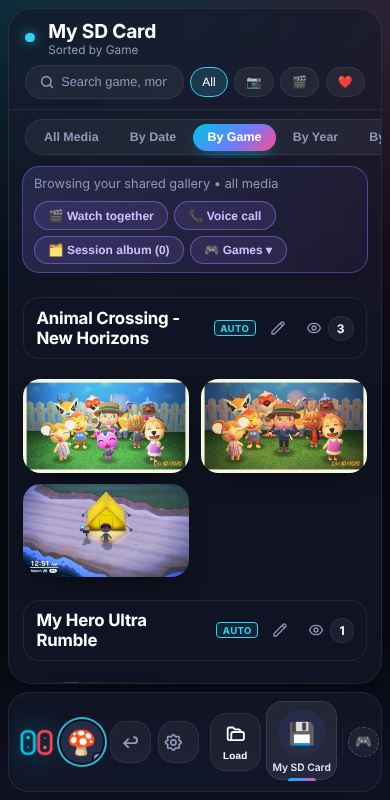
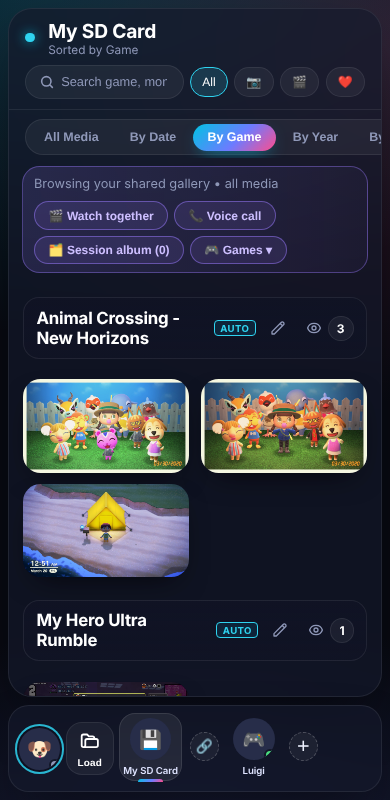
Dock layout: scrollable rail with a visible scroll bar, slimmer phone bar, remove the back-to-classic button (1.14.1)
Claude-Session: https://claude.ai/code/session_01QyxPkgcy6679hfwadjTiiM

diff --git a/index.html b/index.html
@@ -658,9 +658,13 @@
         .layout-dock .sidebar {
             width: 5.9rem; height: 100%; max-height: none; border-radius: 1.5rem; background: var(--dk-glass); border: 1px solid var(--dk-line);
             -webkit-backdrop-filter: blur(18px); backdrop-filter: blur(18px); box-shadow: 0 24px 60px -24px rgba(0,0,0,0.75);
-            align-items: center; padding: 0.95rem 0 0.75rem; overflow-x: hidden; overflow-y: auto; scrollbar-width: none;
+            align-items: center; padding: 0.95rem 0 0.75rem; overflow: hidden;
         }
-        .layout-dock .sidebar::-webkit-scrollbar { display: none; }
+        .layout-dock .dk-rail-scroll { flex: 1 1 auto; min-height: 0; width: 100%; display: flex; flex-direction: column; align-items: center; overflow-y: auto; overflow-x: hidden; scrollbar-width: thin; scrollbar-color: rgba(255,255,255,0.4) rgba(255,255,255,0.06); padding-bottom: 0.4rem; }
+        .layout-dock .dk-rail-scroll::-webkit-scrollbar { width: 8px; height: 8px; }
+        .layout-dock .dk-rail-scroll::-webkit-scrollbar-track { background: rgba(255,255,255,0.06); border-radius: 9999px; margin: 0.3rem 0; }
+        .layout-dock .dk-rail-scroll::-webkit-scrollbar-thumb { background: rgba(255,255,255,0.4); border-radius: 9999px; }
+        .layout-dock .dk-rail-scroll::-webkit-scrollbar-thumb:hover { background: rgba(255,255,255,0.65); }
         .layout-dock .sidebar-header { padding: 0; border: 0; margin: 0 0 0.7rem; }
         .layout-dock .sidebar-title { display: none; }
         .layout-dock .sidebar-logo { width: 2.7rem; height: 2.7rem; filter: drop-shadow(0 0 14px rgba(0,195,227,0.55)); }
@@ -701,11 +705,10 @@
         .layout-dock .sidebar > .nav-section-title, .layout-dock .sidebar > #sort-title, .layout-dock .sidebar > #discover-title,
         .layout-dock .sidebar > #nav-filters, .layout-dock .sidebar > #discover-buttons, .layout-dock .sidebar > #local-tools,
         .layout-dock .sidebar > #peer-activity-box, .layout-dock .sidebar > #stats-container { display: none !important; }
-        .layout-dock .settings-btn-container { margin-top: auto; padding: 0.6rem 0 0; border: 0; display: flex; flex-direction: column; gap: 0.4rem; align-items: center; width: 100%; }
+        .layout-dock .settings-btn-container { margin-top: 0; flex-shrink: 0; padding: 0.6rem 0 0; border: 0; display: flex; flex-direction: column; gap: 0.4rem; align-items: center; width: 100%; }
         .layout-dock .btn-sidebar-action { width: 3.1rem; height: 3.1rem; padding: 0; font-size: 0; justify-content: center; border-radius: 1rem; background: var(--dk-soft); border: 1px solid var(--dk-line); }
         .layout-dock .btn-sidebar-action svg { width: 1.3rem; height: 1.3rem; }
         .layout-dock .btn-sidebar-action:hover { background: rgba(255,255,255,0.12); }
-        .layout-dock #btn-dk-classic { font-size: 0.95rem; color: var(--switch-muted); }
 
         /* ----- main panel ----- */
         .layout-dock .main-area { border-radius: 1.5rem; background: var(--dk-glass); border: 1px solid var(--dk-line); -webkit-backdrop-filter: blur(18px); backdrop-filter: blur(18px); box-shadow: 0 24px 60px -24px rgba(0,0,0,0.75); overflow: hidden; }
@@ -827,25 +830,26 @@
         /* ----- phones and narrow windows: the rail becomes a bar along the bottom ----- */
         @media (max-width: 860px) {
             body.layout-dock { flex-direction: column-reverse; padding: 0.5rem; gap: 0.5rem; }
-            .layout-dock .sidebar { width: 100%; height: auto; flex-direction: row; align-items: center; justify-content: flex-start; gap: 0.15rem; padding: 0.45rem 0.6rem; overflow-x: auto; overflow-y: hidden; border-radius: 1.3rem; flex-shrink: 0; }
-            .layout-dock .sidebar > * { flex-shrink: 0; order: 10; }
-            .layout-dock .sidebar > .sidebar-header { order: 1; }
-            .layout-dock .sidebar > .my-profile-card { order: 2; }
-            .layout-dock .sidebar > .settings-btn-container { order: 3; }
-            .layout-dock .sidebar > #btn-select-folder { order: 4; }
-            .layout-dock .sidebar-header, .layout-dock .my-profile-card { margin: 0 0.3rem 0 0; }
-            .layout-dock .sidebar-logo { width: 2.2rem; height: 2.2rem; }
-            .layout-dock .my-profile-card .avatar-circle { width: 2.6rem; height: 2.6rem; }
-            .layout-dock #btn-select-folder { margin: 0 0.2rem !important; width: 3.2rem !important; }
+            .layout-dock .sidebar { width: 100%; height: auto; flex-direction: row; align-items: center; justify-content: flex-start; gap: 0.35rem; padding: 0.4rem 0.6rem; overflow: hidden; border-radius: 1.3rem; flex-shrink: 0; }
+            .layout-dock .sidebar > * { flex-shrink: 0; }
+            .layout-dock .sidebar > .sidebar-header, .layout-dock .sidebar > .settings-btn-container { display: none; }
+            .layout-dock .sidebar > .my-profile-card { margin: 0; }
+            .layout-dock .my-profile-card .avatar-circle { width: 2.6rem; height: 2.6rem; font-size: 1.25rem; }
+            .layout-dock #btn-select-folder { margin: 0 !important; width: 3rem !important; padding: 0.4rem 0; }
             .layout-dock .sidebar > div[style*="padding: 0 0.6rem"] { width: auto; padding: 0 !important; }
-            .layout-dock .section-title { width: auto; margin: 0 0.2rem; flex-direction: row; }
-            .layout-dock .section-title::before { width: 1px; height: 1.6rem; }
-            .layout-dock .section-title span { display: none; }
+            .layout-dock .sidebar > div[style*="padding: 0 0.6rem"] .friend-row { width: 3.9rem; padding: 0.35rem 0.15rem 0.3rem; }
+            .layout-dock .dk-rail-scroll { flex: 1 1 0; min-width: 0; flex-direction: row; align-items: center; gap: 0.1rem; overflow-x: auto; overflow-y: hidden; padding: 0 0 0.25rem; scrollbar-width: thin; }
+            .layout-dock .dk-rail-scroll > * { flex-shrink: 0; }
+            .layout-dock .dk-rail-scroll > .section-title:has(#btn-add-presence), .layout-dock .dk-rail-scroll > #presence-list { display: none; }
+            .layout-dock .section-title { width: auto; margin: 0 0.15rem; flex-direction: row; }
+            .layout-dock .section-title::before, .layout-dock .section-title span { display: none; }
+            .layout-dock .section-title button { width: 1.8rem; height: 1.8rem; }
             .layout-dock .presence-list, .layout-dock .friend-list { flex-direction: row; width: auto; padding: 0; gap: 0.1rem; }
-            .layout-dock .friend-row, .layout-dock .presence-row { width: 4.4rem; flex-shrink: 0; }
+            .layout-dock .friend-row, .layout-dock .presence-row { width: 3.9rem; flex-shrink: 0; padding: 0.35rem 0.15rem 0.3rem; }
+            .layout-dock .friend-row .avatar-circle, .layout-dock .presence-row .avatar-circle { width: 2.6rem !important; height: 2.6rem !important; font-size: 1.15rem !important; }
+            .layout-dock .friend-row .game-icon, .layout-dock .presence-row .game-icon { width: 2.6rem; height: 2.6rem; }
+            .layout-dock .row-name { font-size: 0.6rem; }
             .layout-dock .friend-row.active::before { left: 30%; right: 30%; top: auto; bottom: -0.1rem; width: auto; height: 3px; border-radius: 4px 4px 0 0; }
-            .layout-dock .settings-btn-container { margin: 0 0.3rem 0 0; padding: 0; flex-direction: row; width: auto; }
-            .layout-dock .btn-sidebar-action { width: 2.6rem; height: 2.6rem; }
             .layout-dock .top-bar { height: auto; flex-wrap: wrap; padding: 0.6rem 1rem; row-gap: 0.5rem; }
             .layout-dock .top-bar-left { flex: 1 1 auto; }
             .layout-dock #gallery-search-wrap, .layout-dock #chat-actions-wrap { flex: 1 0 100%; order: 5; }
@@ -8737,10 +8741,13 @@
             dockSetTitle(document.getElementById('btn-add-presence'), 'Add someone to watch on Switch presence');
             dockSetTitle(document.getElementById('btn-copy-invite-link'), 'Copy my invite link');
             dockSetTitle(document.getElementById('btn-new-group'), 'New group chat');
-            const back = document.createElement('button'); back.id = 'btn-dk-classic'; back.className = 'btn-sidebar-action'; back.type = 'button'; back.title = 'Switch back to the classic layout'; back.textContent = '↩';
-            back.addEventListener('click', () => applyLayout('classic', true));
-            document.querySelector('.settings-btn-container').insertBefore(back, document.getElementById('btn-open-settings'));
-            dockState.created.push(back);
+            // friends, groups and presence scroll inside their own region, so the profile, Load, My SD Card and Settings stay put
+            const scroll = document.createElement('div'); scroll.className = 'dk-rail-scroll'; scroll.id = 'dk-rail-scroll';
+            document.getElementById('my-sdcard-row').parentElement.insertAdjacentElement('afterend', scroll);
+            dockState.created.push(scroll);
+            const sec = (btnId) => document.getElementById(btnId).parentElement;
+            [sec('btn-add-presence'), document.getElementById('presence-list'), sec('btn-copy-invite-link'), document.getElementById('friend-list'), document.getElementById('friends-empty-note'),
+             sec('btn-new-group'), document.getElementById('group-list'), document.getElementById('groups-empty-note')].forEach(n => dockMove(n, scroll));
             dockLabelRows();
             dockState.obs = new MutationObserver(() => dockLabelRows());
             ['friend-list', 'group-list', 'presence-list'].forEach(id => { const e = document.getElementById(id); if (e) dockState.obs.observe(e, { childList: true, subtree: true, characterData: true }); });

diff --git a/CHANGELOG.md b/CHANGELOG.md
@@ -2,6 +2,13 @@
 
 Patch notes for Switch Hub. Nothing fancy, just what changed and why.
 
+## [1.14.1] - 2026-11-15
+
+### Changed
+- **Dock layout: the friends rail now scrolls with a visible scroll bar.** Friends, groups and Switch presence scroll in their own area, so your profile, Load, My SD Card and Settings stay in place, and you can drag the bar if you don't have a scroll wheel.
+- **Dock layout on phones: a cleaner bottom bar.** The logo, settings gear and Switch presence entries are gone from the bar (tap your avatar for Settings). What's left is your avatar, Load, My SD Card, your friends and groups, and the invite and new-group buttons.
+- Removed the small "back to classic" button from the Dock rail. You can still switch back in Settings → Layout or from the welcome screen.
+
 ## [1.14.0] - 2026-11-14
 
 ### Added
